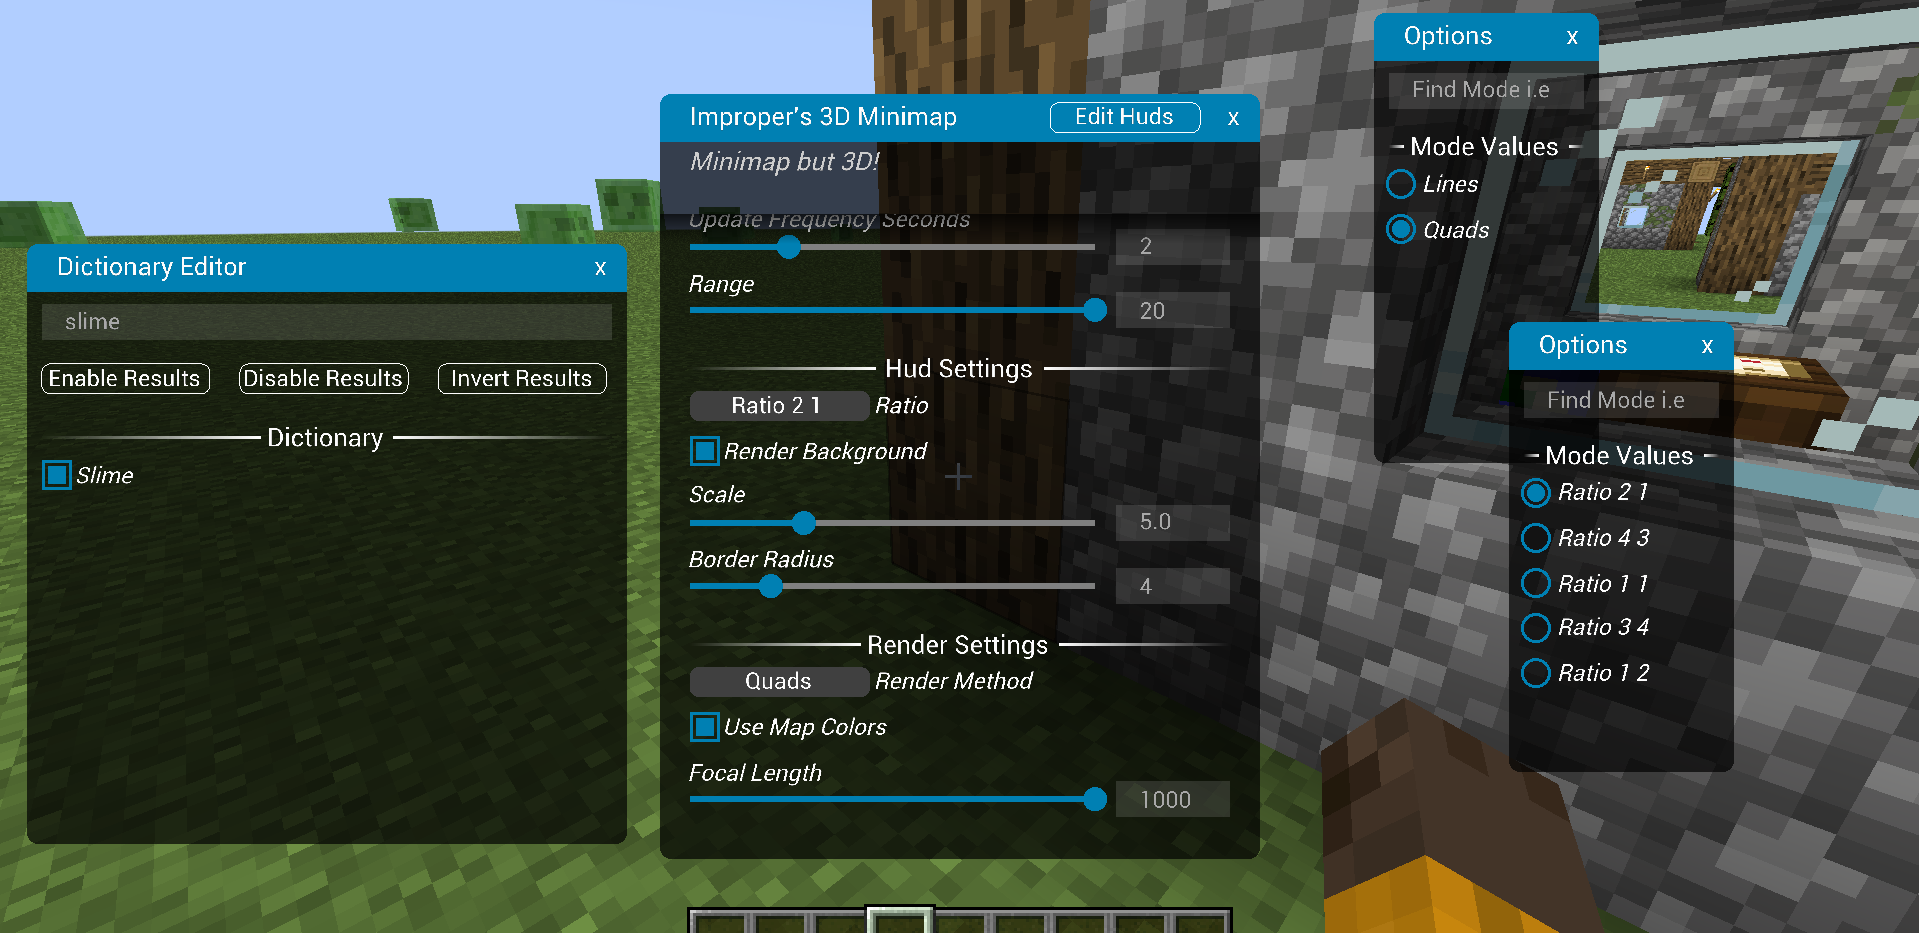
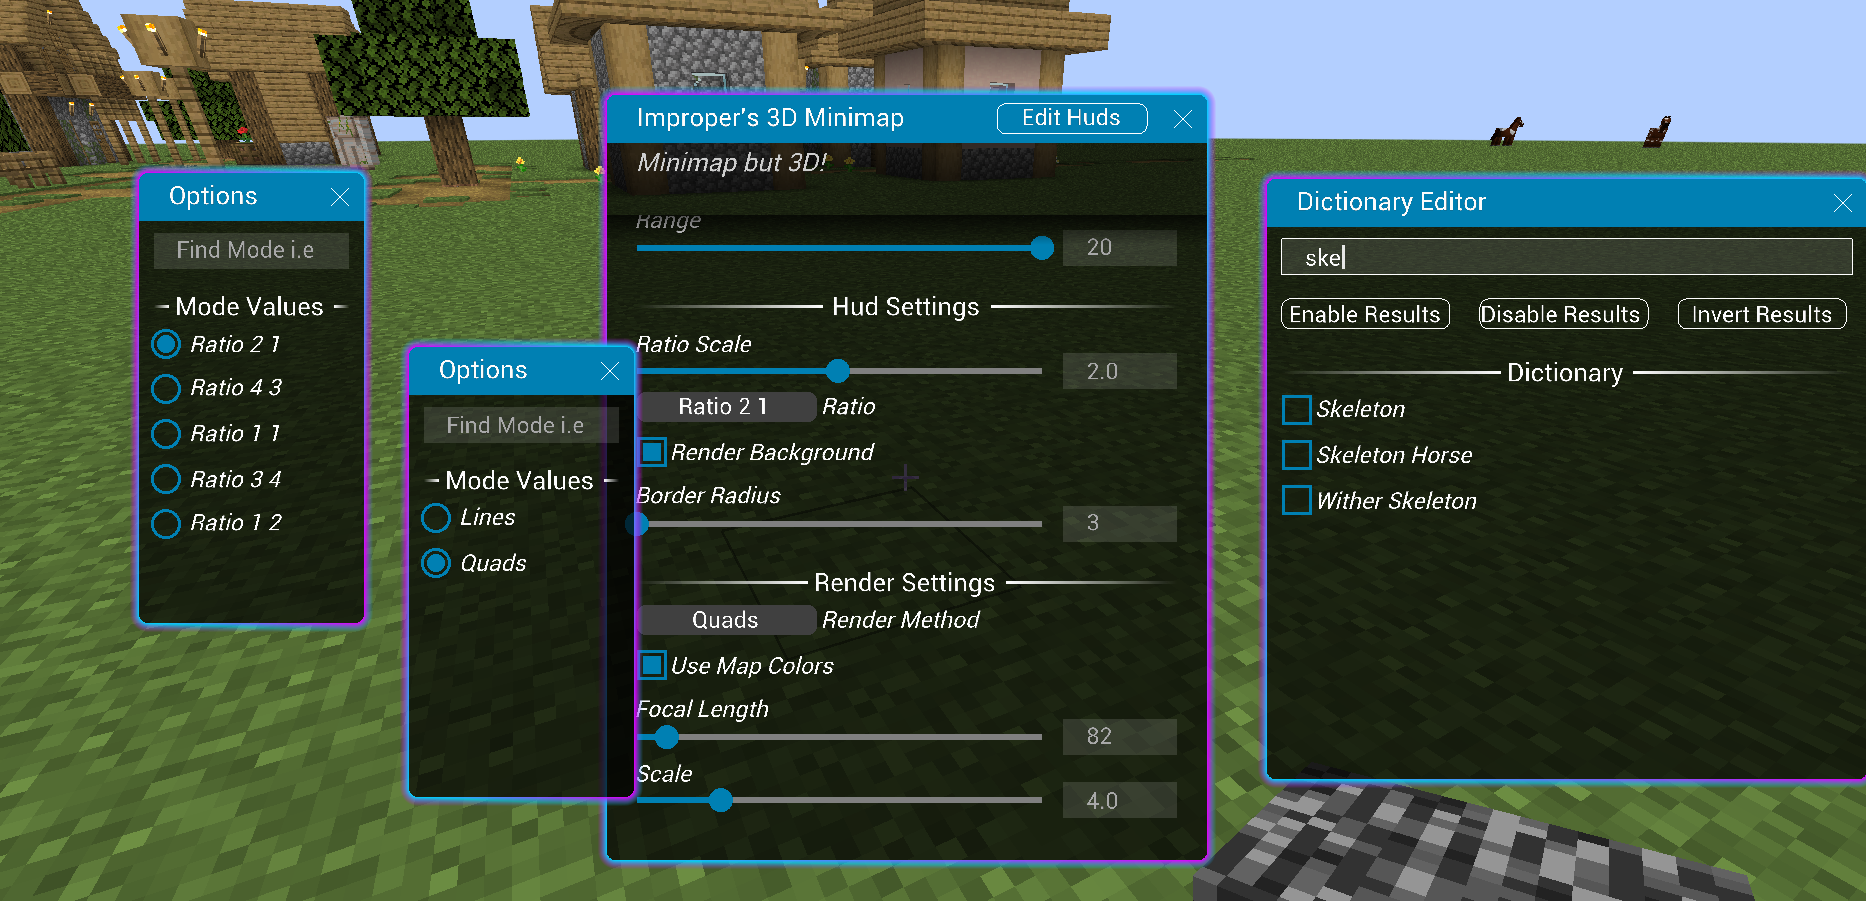
made zoom mode render in first person, added cool gui drop shadow effect

diff --git a/src/main/java/io/github/itzispyder/impropers3dminimap/util/minecraft/RenderUtils.java b/src/main/java/io/github/itzispyder/impropers3dminimap/util/minecraft/RenderUtils.java
@@ -251,6 +251,48 @@ public final class RenderUtils implements Global {
         finishRendering();
     }
 
+    public static void fillRoundShadowGradient(DrawContext context, int x, int y, int w, int h, int r, int thickness,
+                                               int inner1, int outer1, int inner2, int outer2, int inner3, int outer3, int inner4, int outer4) {
+        r = MathUtils.clamp(r, 0, Math.min(w, h) / 2);
+
+        BufferBuilder buf = getBuffer(VertexFormat.DrawMode.TRIANGLE_STRIP, VertexFormats.POSITION_COLOR);
+        Matrix4f mat = context.getMatrices().peek().getPositionMatrix();
+
+        int[][] corners = {
+                { x + w - r, y + r },
+                { x + w - r, y + h - r},
+                { x + r, y + h - r },
+                { x + r, y + r }
+        };
+        int[][] colors = {
+                { inner1, outer1 },
+                { inner2, outer2 },
+                { inner3, outer3 },
+                { inner4, outer4 }
+        };
+
+        for (int corner = 0; corner < 4; corner++) {
+            int cornerStart = (corner - 1) * 90;
+            int cornerEnd = cornerStart + 90;
+            for (int i = cornerStart; i <= cornerEnd; i += 10) {
+                float angle = (float)Math.toRadians(i);
+                float rx1 = corners[corner][0] + (float)(Math.cos(angle) * r);
+                float ry1 = corners[corner][1] + (float)(Math.sin(angle) * r);
+                float rx2 = corners[corner][0] + (float)(Math.cos(angle) * (r + thickness));
+                float ry2 = corners[corner][1] + (float)(Math.sin(angle) * (r + thickness));
+                buf.vertex(mat, rx1, ry1, 0).color(colors[corner][0]);
+                buf.vertex(mat, rx2, ry2, 0).color(colors[corner][1]);
+            }
+        }
+
+        buf.vertex(mat, corners[0][0], y, 0).color(colors[0][0]); // connect last to first vertex
+        buf.vertex(mat, corners[0][0], y - thickness, 0).color(colors[0][1]); // connect last to first vertex
+
+        beginRendering();
+        drawBuffer(buf);
+        finishRendering();
+    }
+
     public static void fillRoundShadow(DrawContext context, int x, int y, int w, int h, int r, int thickness, int color) {
         fillRoundShadow(context, x, y, w, h, r, thickness, color, new Color(color).getHexCustomAlpha(0.0));
     }

diff --git a/src/main/java/io/github/itzispyder/impropers3dminimap/render/ui/elements/config/WindowElement.java b/src/main/java/io/github/itzispyder/impropers3dminimap/render/ui/elements/config/WindowElement.java
@@ -6,6 +6,7 @@ import io.github.itzispyder.impropers3dminimap.render.animation.Animator;
 import io.github.itzispyder.impropers3dminimap.render.simulation.SimulationRadar;
 import io.github.itzispyder.impropers3dminimap.render.ui.GuiElement;
 import io.github.itzispyder.impropers3dminimap.render.ui.GuiScreen;
+import io.github.itzispyder.impropers3dminimap.util.math.Color;
 import io.github.itzispyder.impropers3dminimap.util.minecraft.RenderUtils;
 import net.minecraft.client.gui.DrawContext;
 
@@ -42,6 +43,14 @@ public abstract class WindowElement extends GuiElement {
 
         renderTitleBar(context, mx, my);
         super.render(context, mx, my);
+
+        Color color1 = Color.AQUA;
+        Color color2 = Color.MAGENTA;
+        int c11 = color1.getHex();
+        int c12 = color2.getHex();
+        int c01 = color1.getHexCustomAlpha(0.0);
+        int c02 = color2.getHexCustomAlpha(0.0);
+        RenderUtils.fillRoundShadowGradient(context, x, y, width, height, r, 3, c11, c02, c12, c01, c11, c02, c12, c01);
 
         if (canAnimate)
             context.getMatrices().pop();
@@ -94,7 +103,11 @@ public abstract class WindowElement extends GuiElement {
         }
 
         RenderUtils.drawText(context, title, x + 10, y + 16 / 3, false);
-        RenderUtils.drawText(context, "x", x + width - 16 + 16 / 3, y + 16 / 3, false);
+
+        int cx = x + width - 16 / 2;
+        int cy = y + 16 / 2;
+        RenderUtils.drawLine(context, cx - 3, cy - 3, cx + 3, cy + 3, 0xFFFFFFFF);
+        RenderUtils.drawLine(context, cx + 3, cy - 3, cx - 3, cy + 3, 0xFFFFFFFF);
     }
 
     public boolean isHoveringTitle(int mx, int my) {

diff --git a/src/main/java/io/github/itzispyder/impropers3dminimap/render/simulation/Simulation.java b/src/main/java/io/github/itzispyder/impropers3dminimap/render/simulation/Simulation.java
@@ -75,6 +75,14 @@ public class Simulation {
         if (renderBackground) {
             RenderUtils.fillRoundRect(context, x, y, width, height, r, accentColor);
             RenderUtils.fillRect(context, x + r, y + r, width - r * 2, height - r * 2, Color.BLACK.getHex());
+
+            Color color1 = Color.AQUA;
+            Color color2 = Color.MAGENTA;
+            int c11 = color1.getHex();
+            int c12 = color2.getHex();
+            int c01 = color1.getHexCustomAlpha(0.0);
+            int c02 = color2.getHexCustomAlpha(0.0);
+            RenderUtils.fillRoundShadowGradient(context, x, y, width, height, r, 3, c11, c02, c12, c01, c11, c02, c12, c01);
         }
 
         if (renderer.worldSize() > 0) {
@@ -150,10 +158,10 @@ public class Simulation {
     }
 
     public Vec2f projectVector(double x, double y, double z) {
-        double focal = -MathUtils.lerpClamped(focalPoint.z, 10, zoomDelta);
-        double depth = focal + z;
-        if (depth >= -0.1)
-            depth = -0.1;
+        double focal = -MathUtils.lerpClamped(focalPoint.z, 0.001, zoomDelta);
+        double depth = MathUtils.lerpClamped(focal + z, (focal + z) * 0.0025, zoomDelta);
+        if (depth >= 0)
+            depth = -0.00000000000000000000000000000000001;
 
         float px = (float)(focal * x / depth);
         float py = (float)(focal * y / depth);

diff --git a/src/main/java/io/github/itzispyder/impropers3dminimap/render/simulation/SimulationRadar.java b/src/main/java/io/github/itzispyder/impropers3dminimap/render/simulation/SimulationRadar.java
@@ -19,7 +19,8 @@ import net.minecraft.util.math.BlockPos;
 import net.minecraft.util.math.Vec3d;
 import org.joml.Quaternionf;
 
-import java.util.concurrent.CompletableFuture;
+import java.util.concurrent.ExecutorService;
+import java.util.concurrent.Executors;
 
 public class SimulationRadar implements Global {
 
@@ -131,6 +132,8 @@ public class SimulationRadar implements Global {
 
     public final Animator zoomAnimator = new PollingAnimator(300, Impropers3DMinimap.BIND_ZOOM::isPressed, Animations.FADE_IN_AND_OUT);
 
+    private final ExecutorService asyncExecutor = Executors.newFixedThreadPool(4);
+
     private Simulation simulation;
     private BlockPos previousPos;
     private int ticks;
@@ -163,7 +166,7 @@ public class SimulationRadar implements Global {
         boolean canUpdate = previousPos == null || !previousPos.equals(playerPos);
 
         if (ticks++ >= max && canUpdate) {
-            CompletableFuture.runAsync(() -> {
+            asyncExecutor.submit(() -> {
                 simulation.update(range.getVal(), useMapColors.getVal(), highlights.getVal());
             });
             previousPos = playerPos;
